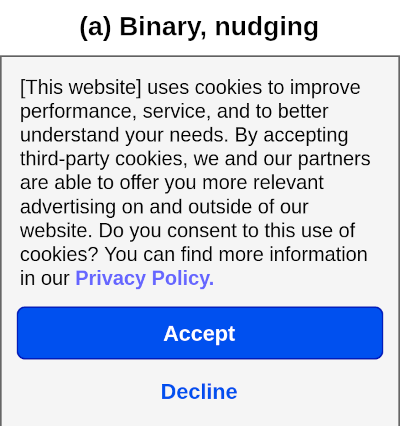
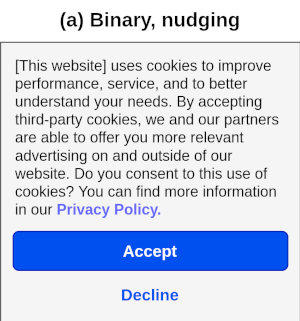
image 300px

diff --git a/README.md b/README.md
@@ -3,7 +3,7 @@
 
 Part of a typology of seven cookie consent notice types observed on popular South Africa websites in December 2021. This 'type a' cookie consent notice forms part of my Master of IS research. It will be compared to a [Design Science Research](http://www.desrist.org/desrist/content/design-science-research-in-information-systems.pdf) (DSR) artifact that aims to produce an improved cookie consent notice. 
 
-<img src="/repo-assets/type-a.png" width="400"/>
+<img src="/repo-assets/type-a.png" width="300"/>
 
 Code adapted from [GlowCookies](https://github.com/manucaralmo/GlowCookies) by Almoguera (2021).
 Typology adapted from Utz et al. (2019), who evaluated the GUI of six types of cookie consent notices in a series of online experiments.
